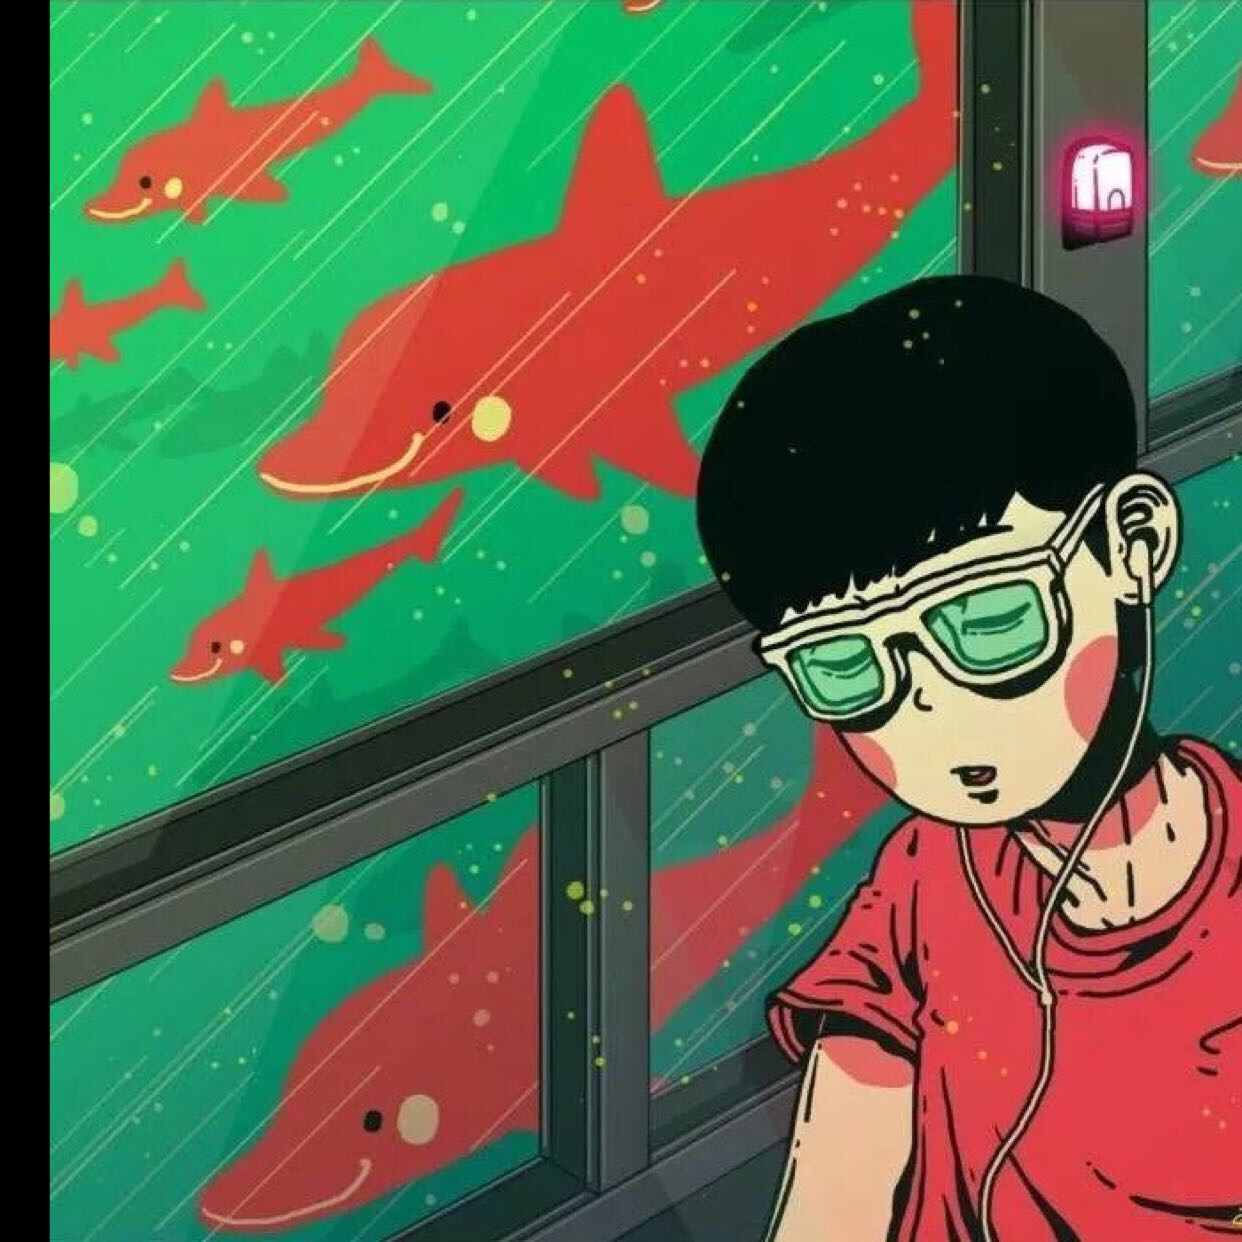
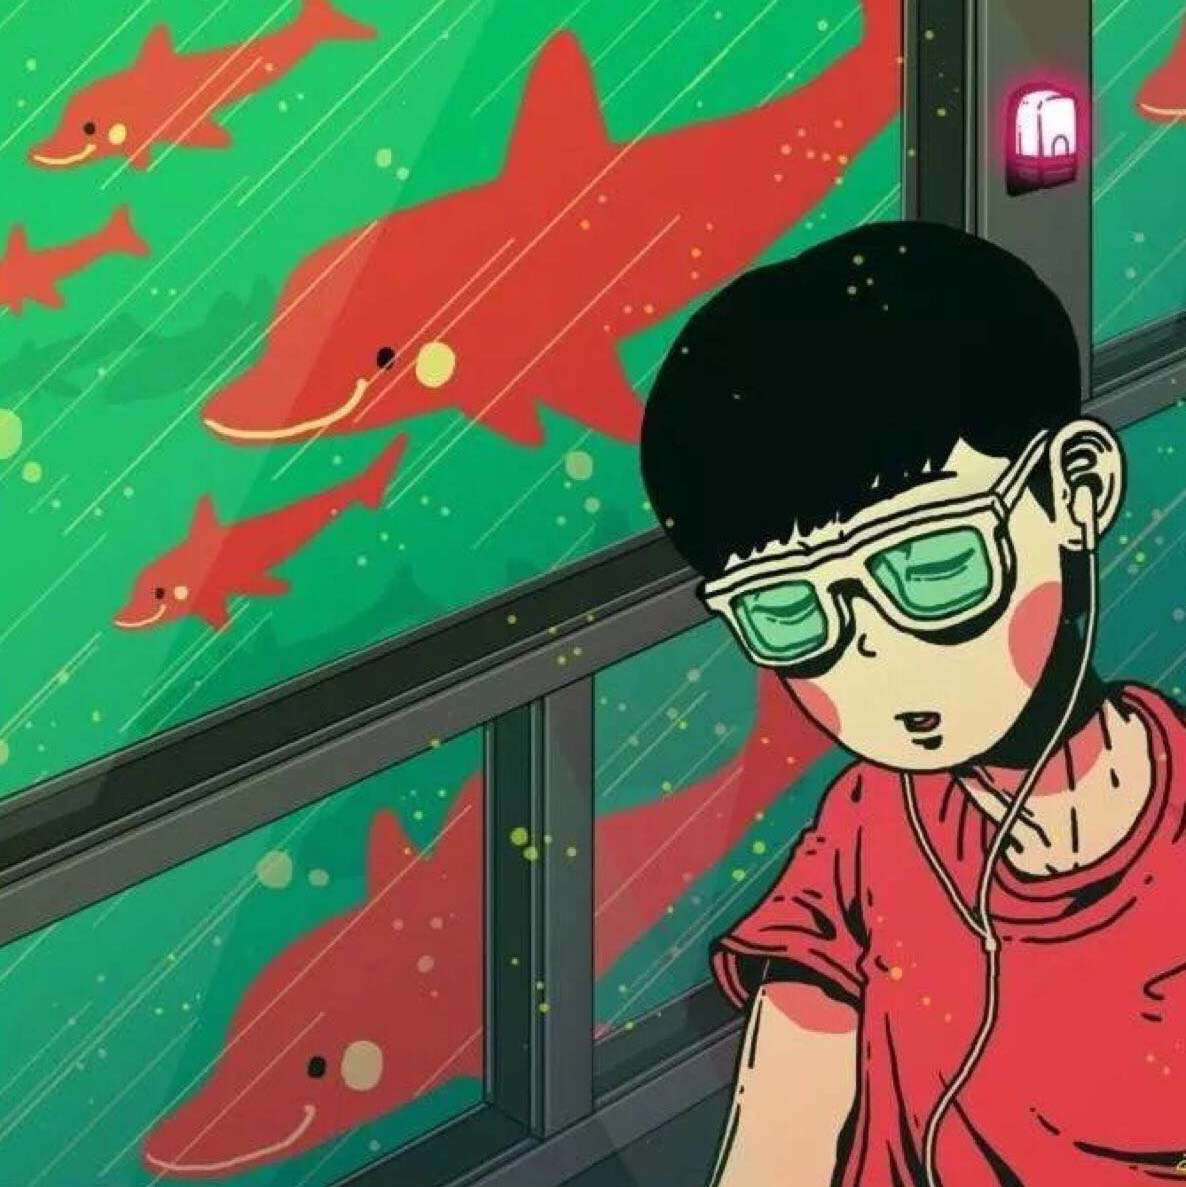
Site updated: 2021-07-08 22:28:40

diff --git a/2021/07/08/hello-world/index.html b/2021/07/08/hello-world/index.html
@@ -20,19 +20,17 @@
     <meta name="keywords" content="hexo,hexo-theme,hexo-blog">
     
     <meta name="description" content="">
-    <meta name="description" content="Welcome to Hexo! This is your very first post. Check documentation for more info. If you get any problems when using Hexo, you can find the answer in troubleshooting or you can ask me on GitHub. 这是我的测">
+    <meta name="description" content="好早之前就有弄个自己博客的想法，但由于种种原因没能实现（其实就是懒），最近几年也一直更新维护着公司产品的文档中心与问题库，今天看到了几位大牛的博客感触颇深，终于在今天花了一下午时间把博客和主题啥的敲定了。 今后的日子里就是积累和产出的过程，自己也会把前几年记录的一些技术文档整理下不定时更新，也会发一些日常观察生活的图片文字。 希望做个高产的博主了，先说到这儿吧，晚安。">
 <meta property="og:type" content="article">
 <meta property="og:title" content="Hello World">
 <meta property="og:url" content="https://slions.github.io/2021/07/08/hello-world/index.html">
 <meta property="og:site_name" content="Hexo">
-<meta property="og:description" content="Welcome to Hexo! This is your very first post. Check documentation for more info. If you get any problems when using Hexo, you can find the answer in troubleshooting or you can ask me on GitHub. 这是我的测">
+<meta property="og:description" content="好早之前就有弄个自己博客的想法，但由于种种原因没能实现（其实就是懒），最近几年也一直更新维护着公司产品的文档中心与问题库，今天看到了几位大牛的博客感触颇深，终于在今天花了一下午时间把博客和主题啥的敲定了。 今后的日子里就是积累和产出的过程，自己也会把前几年记录的一些技术文档整理下不定时更新，也会发一些日常观察生活的图片文字。 希望做个高产的博主了，先说到这儿吧，晚安。">
 <meta property="og:locale">
-<meta property="og:image" content="c:/Users/Administrator/Desktop/88.png">
 <meta property="article:published_time" content="2021-07-08T06:30:33.217Z">
-<meta property="article:modified_time" content="2021-07-08T09:54:07.337Z">
+<meta property="article:modified_time" content="2021-07-08T14:28:02.653Z">
 <meta property="article:author" content="Jingyu Shi">
 <meta name="twitter:card" content="summary">
-<meta name="twitter:image" content="c:/Users/Administrator/Desktop/88.png">
     <meta http-equiv="Cache-control" content="no-cache">
     <meta http-equiv="X-UA-Compatible" content="IE=edge,chrome=1"/>
     
@@ -312,7 +310,7 @@ height:50vh;
                 
                 
                     <div class="post-intro-read">
-                        <span>字数统计: <span class="post-count word-count">82</span>阅读时长: <span class="post-count reading-time">1 min</span></span>
+                        <span>字数统计: <span class="post-count word-count">170</span>阅读时长: <span class="post-count reading-time">1 min</span></span>
                     </div>
                 
                 <div class="post-intro-meta">
@@ -441,20 +439,9 @@ height:50vh;
         <div class="container container-unloaded">
             <main class="main post-page">
     <article class="article-entry">
-        <p>Welcome to <a target="_blank" rel="noopener" href="https://hexo.io/">Hexo</a>! This is your very first post. Check <a target="_blank" rel="noopener" href="https://hexo.io/docs/">documentation</a> for more info. If you get any problems when using Hexo, you can find the answer in <a target="_blank" rel="noopener" href="https://hexo.io/docs/troubleshooting.html">troubleshooting</a> or you can ask me on <a target="_blank" rel="noopener" href="https://github.com/hexojs/hexo/issues">GitHub</a>.</p>
-<h2 id="这是我的测试页"><a href="#这是我的测试页" class="headerlink" title="这是我的测试页"></a>这是我的测试页</h2><h2 id="Quick-Start"><a href="#Quick-Start" class="headerlink" title="Quick Start"></a>Quick Start</h2><h3 id="Create-a-new-post"><a href="#Create-a-new-post" class="headerlink" title="Create a new post"></a>Create a new post</h3><figure class="highlight bash"><table><tr><td class="gutter"><pre><span class="line">1</span><br></pre></td><td class="code"><pre><span class="line">$ hexo new <span class="string">&quot;My New Post&quot;</span></span><br></pre></td></tr></table></figure>
-
-<p>More info: <a target="_blank" rel="noopener" href="https://hexo.io/docs/writing.html">Writing</a></p>
-<p><img src="C:\Users\Administrator\Desktop\88.png" alt="88"></p>
-<h3 id="Run-server"><a href="#Run-server" class="headerlink" title="Run server"></a>Run server</h3><figure class="highlight bash"><table><tr><td class="gutter"><pre><span class="line">1</span><br></pre></td><td class="code"><pre><span class="line">$ hexo server</span><br></pre></td></tr></table></figure>
-
-<p>More info: <a target="_blank" rel="noopener" href="https://hexo.io/docs/server.html">Server</a></p>
-<h3 id="Generate-static-files"><a href="#Generate-static-files" class="headerlink" title="Generate static files"></a>Generate static files</h3><figure class="highlight bash"><table><tr><td class="gutter"><pre><span class="line">1</span><br></pre></td><td class="code"><pre><span class="line">$ hexo generate</span><br></pre></td></tr></table></figure>
-
-<p>More info: <a target="_blank" rel="noopener" href="https://hexo.io/docs/generating.html">Generating</a></p>
-<h3 id="Deploy-to-remote-sites"><a href="#Deploy-to-remote-sites" class="headerlink" title="Deploy to remote sites"></a>Deploy to remote sites</h3><figure class="highlight bash"><table><tr><td class="gutter"><pre><span class="line">1</span><br></pre></td><td class="code"><pre><span class="line">$ hexo deploy</span><br></pre></td></tr></table></figure>
-
-<p>More info: <a target="_blank" rel="noopener" href="https://hexo.io/docs/one-command-deployment.html">Deployment</a></p>
+        <p>好早之前就有弄个自己博客的想法，但由于种种原因没能实现（其实就是懒），最近几年也一直更新维护着公司产品的文档中心与问题库，今天看到了几位大牛的博客感触颇深，终于在今天花了一下午时间把博客和主题啥的敲定了。</p>
+<p>今后的日子里就是积累和产出的过程，自己也会把前几年记录的一些技术文档整理下不定时更新，也会发一些日常观察生活的图片文字。</p>
+<p>希望做个高产的博主了，先说到这儿吧，晚安。</p>
 
     </article>
     <!-- license  -->
@@ -463,7 +450,7 @@ height:50vh;
             <p>原文作者：<a href="https://slions.github.io">Jingyu Shi</a>
             <p>原文链接：<a href="https://slions.github.io/2021/07/08/hello-world/">https://slions.github.io/2021/07/08/hello-world/</a>
             <p>发表日期：<a href="https://slions.github.io/2021/07/08/hello-world/">July 8th 2021, 2:30:33 pm</a>
-            <p>更新日期：<a href="https://slions.github.io/2021/07/08/hello-world/">July 8th 2021, 5:54:07 pm</a>
+            <p>更新日期：<a href="https://slions.github.io/2021/07/08/hello-world/">July 8th 2021, 10:28:02 pm</a>
             <p>版权声明：本文采用<a rel="license noopener" target="_blank" href="http://creativecommons.org/licenses/by-nc/4.0/">知识共享署名-非商业性使用 4.0 国际许可协议</a>进行许可</p>
         </div>
     
@@ -599,7 +586,7 @@ top:50vh;
         <div class="toc-catalog">
             <span class="iconfont-archer catalog-icon">&#xe613;</span><span>CATALOG</span>
         </div>
-        <ol class="toc"><li class="toc-item toc-level-2"><a class="toc-link" href="#%E8%BF%99%E6%98%AF%E6%88%91%E7%9A%84%E6%B5%8B%E8%AF%95%E9%A1%B5"><span class="toc-number">1.</span> <span class="toc-text">这是我的测试页</span></a></li><li class="toc-item toc-level-2"><a class="toc-link" href="#Quick-Start"><span class="toc-number">2.</span> <span class="toc-text">Quick Start</span></a><ol class="toc-child"><li class="toc-item toc-level-3"><a class="toc-link" href="#Create-a-new-post"><span class="toc-number">2.1.</span> <span class="toc-text">Create a new post</span></a></li><li class="toc-item toc-level-3"><a class="toc-link" href="#Run-server"><span class="toc-number">2.2.</span> <span class="toc-text">Run server</span></a></li><li class="toc-item toc-level-3"><a class="toc-link" href="#Generate-static-files"><span class="toc-number">2.3.</span> <span class="toc-text">Generate static files</span></a></li><li class="toc-item toc-level-3"><a class="toc-link" href="#Deploy-to-remote-sites"><span class="toc-number">2.4.</span> <span class="toc-text">Deploy to remote sites</span></a></li></ol></li></ol>
+        
     </div>
     
     <div class="sidebar sidebar-hide">

diff --git a/index.html b/index.html
@@ -268,7 +268,7 @@ height:60vh;
     <!-- 文章页  -->
             
     <div class="site-intro-placeholder"></div>
-    <div class="site-intro-img" style="background-image: url(/intro/p2.jpg)"></div>
+    <div class="site-intro-img" style="background-image: url(/intro/p1.jpg)"></div>
     <div class="site-intro-meta">
         <!-- 标题  -->
         <h1 class="intro-title">
@@ -402,12 +402,10 @@ height:60vh;
                 <span>Hello World</span>
         </a>
         <div class="abstract-content">
-            Welcome to Hexo! This is your very first post. Check documentation for more info. If you get any problems when using Hexo, you can find the answer in troubleshooting or you can ask me on GitHub.
-这是我的测试页Quick StartCreate a new post1$ hexo new &quot;My New Post&quot;
+            好早之前就有弄个自己博客的想法，但由于种种原因没能实现（其实就是懒），最近几年也一直更新维护着公司产品的文档中心与问题库，今天看到了几位大牛的博客感触颇深，终于在今天花了一下午时间把博客和主题啥的敲定了。
+今后的日子里就是积累和产出的过程，自己也会把前几年记录的一些技术文档整理下不定时更新，也会发一些日常观察生活的图片文字。
+希望做个高产的博主了，先说到这儿吧，晚安。
 
-More info: Writing
-
-Run server...
         </div>
         <div class="abstract-post-meta">
             <!-- date  -->

diff --git a/archives/2021/07/index.html b/archives/2021/07/index.html
@@ -389,12 +389,10 @@
                 <span>Hello World</span>
         </a>
         <div class="abstract-content">
-            Welcome to Hexo! This is your very first post. Check documentation for more info. If you get any problems when using Hexo, you can find the answer in troubleshooting or you can ask me on GitHub.
-这是我的测试页Quick StartCreate a new post1$ hexo new &quot;My New Post&quot;
+            好早之前就有弄个自己博客的想法，但由于种种原因没能实现（其实就是懒），最近几年也一直更新维护着公司产品的文档中心与问题库，今天看到了几位大牛的博客感触颇深，终于在今天花了一下午时间把博客和主题啥的敲定了。
+今后的日子里就是积累和产出的过程，自己也会把前几年记录的一些技术文档整理下不定时更新，也会发一些日常观察生活的图片文字。
+希望做个高产的博主了，先说到这儿吧，晚安。
 
-More info: Writing
-
-Run server...
         </div>
         <div class="abstract-post-meta">
             <!-- date  -->

diff --git a/archives/2021/index.html b/archives/2021/index.html
@@ -389,12 +389,10 @@
                 <span>Hello World</span>
         </a>
         <div class="abstract-content">
-            Welcome to Hexo! This is your very first post. Check documentation for more info. If you get any problems when using Hexo, you can find the answer in troubleshooting or you can ask me on GitHub.
-这是我的测试页Quick StartCreate a new post1$ hexo new &quot;My New Post&quot;
+            好早之前就有弄个自己博客的想法，但由于种种原因没能实现（其实就是懒），最近几年也一直更新维护着公司产品的文档中心与问题库，今天看到了几位大牛的博客感触颇深，终于在今天花了一下午时间把博客和主题啥的敲定了。
+今后的日子里就是积累和产出的过程，自己也会把前几年记录的一些技术文档整理下不定时更新，也会发一些日常观察生活的图片文字。
+希望做个高产的博主了，先说到这儿吧，晚安。
 
-More info: Writing
-
-Run server...
         </div>
         <div class="abstract-post-meta">
             <!-- date  -->

diff --git a/archives/index.html b/archives/index.html
@@ -389,12 +389,10 @@
                 <span>Hello World</span>
         </a>
         <div class="abstract-content">
-            Welcome to Hexo! This is your very first post. Check documentation for more info. If you get any problems when using Hexo, you can find the answer in troubleshooting or you can ask me on GitHub.
-这是我的测试页Quick StartCreate a new post1$ hexo new &quot;My New Post&quot;
+            好早之前就有弄个自己博客的想法，但由于种种原因没能实现（其实就是懒），最近几年也一直更新维护着公司产品的文档中心与问题库，今天看到了几位大牛的博客感触颇深，终于在今天花了一下午时间把博客和主题啥的敲定了。
+今后的日子里就是积累和产出的过程，自己也会把前几年记录的一些技术文档整理下不定时更新，也会发一些日常观察生活的图片文字。
+希望做个高产的博主了，先说到这儿吧，晚安。
 
-More info: Writing
-
-Run server...
         </div>
         <div class="abstract-post-meta">
             <!-- date  -->
